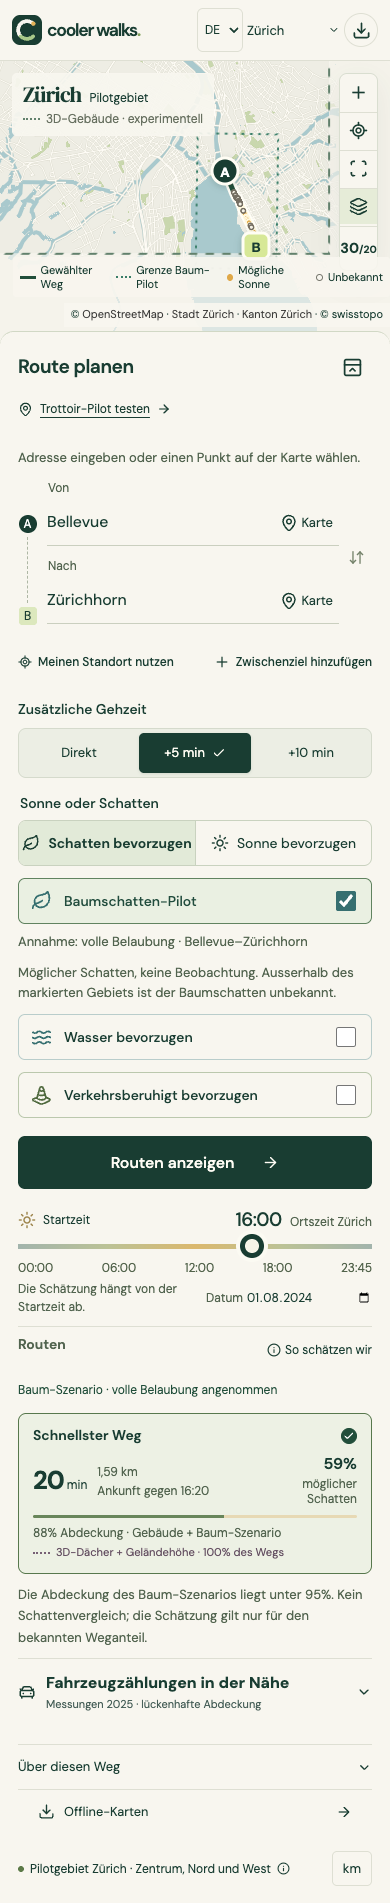
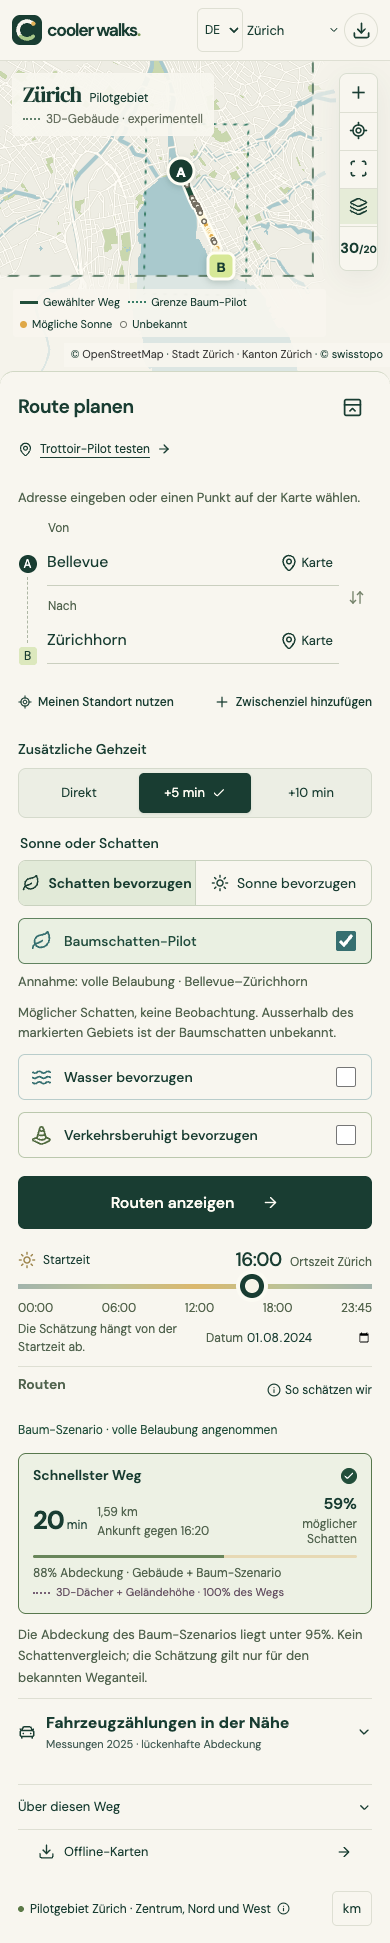
fix: keep canopy legend and route endpoints clear on phones

diff --git a/tests/browser/canopy.spec.ts b/tests/browser/canopy.spec.ts
@@ -10,6 +10,7 @@ test('tree scenario shows coverage, separate contributions, translated mobile co
   await page.goto('/en/?view=planner');
   const toggle = page.getByRole('checkbox', { name: 'Tree shade pilot', exact: true });
   await expect(toggle).not.toBeChecked();
+  await expect(page.locator('.route-card').first()).toBeVisible();
   await page.getByRole('combobox', { name: 'From', exact: true }).fill('Bellevue');
   await page
     .getByRole('option', { name: /^Bellevue/ })
@@ -20,6 +21,10 @@ test('tree scenario shows coverage, separate contributions, translated mobile co
     .getByRole('option', { name: /^Zürichhorn/ })
     .first()
     .click();
+  // Wait for this journey, not a retained result while its route/map is still updating.
+  await expect(page.locator('.route-card').first()).toContainText('1.59 km');
+  await expect(page.locator('.spinner')).toHaveCount(0);
+  await expect(page.locator('.map-shell')).toHaveAttribute('data-map-settled', 'true');
   await expect(page.locator('.route-card').first()).toContainText('estimated shade');
   await toggle.check();
   await expect(page.locator('.route-card').first()).toContainText('potential shade');
@@ -48,6 +53,11 @@ test('tree scenario shows coverage, separate contributions, translated mobile co
   await page.getByRole('button', { name: 'Weg auf der Karte einpassen', exact: true }).click();
   await expect(page.locator('.map-shell')).toHaveAttribute('data-map-settled', 'true');
   expect(await page.evaluate(() => document.documentElement.scrollWidth <= innerWidth)).toBe(true);
+  const legend = await page.locator('.map-legend').boundingBox();
+  const tools = await page.locator('.map-tools').boundingBox();
+  expect(legend && tools && legend.x + legend.width <= tools.x).toBe(true);
+  const destination = await page.locator('.map-marker.destination').boundingBox();
+  expect(destination && legend && destination.y + destination.height < legend.y).toBe(true);
   await page.screenshot({ path: 'docs/screenshots/phone-tree-pilot-de.png', fullPage: true });
   await page.getByRole('button', { name: 'So schätzen wir', exact: true }).first().click();
   await expect(page.getByRole('dialog')).toContainText('volle Belaubung');

diff --git a/src/components/Map.tsx b/src/components/Map.tsx
@@ -800,7 +800,9 @@ export function WalkingMap({
               ? 140
               : showZones
                 ? 140
-                : 95
+                : canopyScenario
+                  ? 115
+                  : 95
             : hero
               ? 170
               : showZones && matchMedia('(max-width:1100px)').matches
@@ -847,10 +849,10 @@ export function WalkingMap({
   }, [ready, result, pending, showZones]);
   useEffect(() => {
     if (ready && result) fit(true);
-  }, [showZones]);
+  }, [showZones, canopyScenario]);
   return (
     <div
-      className={`map-shell ${hero ? 'hero-map' : ''} ${pavements ? 'pavement-map' : ''} ${expanded ? 'map-expanded' : ''}`}
+      className={`map-shell ${hero ? 'hero-map' : ''} ${pavements ? 'pavement-map' : ''} ${canopyScenario ? 'canopy-map' : ''} ${expanded ? 'map-expanded' : ''}`}
       data-map-ready={ready}
       data-map-settled={settled}
     >

diff --git a/src/styles.css b/src/styles.css
@@ -4024,3 +4024,14 @@ html[lang='de'] .icon-text {
   color: var(--forest);
   font-size: 12px;
 }
+
+@media (max-width: 620px) {
+  .planner-map:has(.canopy-map) {
+    min-height: 320px;
+  }
+  .canopy-map .map-legend {
+    right: 64px;
+    flex-wrap: wrap;
+    gap: 7px 12px;
+  }
+}

diff --git a/docs/shade-service-comparison.md b/docs/shade-service-comparison.md
@@ -1,5 +1,7 @@
 # Five Zurich walks compared with Vampire Routing and Shadowmap
 
+The results below freeze the building-only model before the optional [lakeshore canopy scenario](tree-shade-pilot.md). They have not been replaced or presented as validation of that new scenario.
+
 Checked **7 October 2026**, using Cooler Walks **0.15.0**. This is a diagnostic comparison between models, **not a field-accuracy validation**. No production model, recommendation threshold or source geometry was changed to improve agreement. The existing field-validation hold remains.
 
 Five A/B pairs were fixed before collecting the results: ETH hill/river crossing, dense old town, Bahnhofstrasse, treed lakeshore, and Oerlikon. These are deliberately varied examples, not a random or representative city sample. Exact WGS84 endpoints are in the [protocol](../scripts/shade-service-cases.json).
